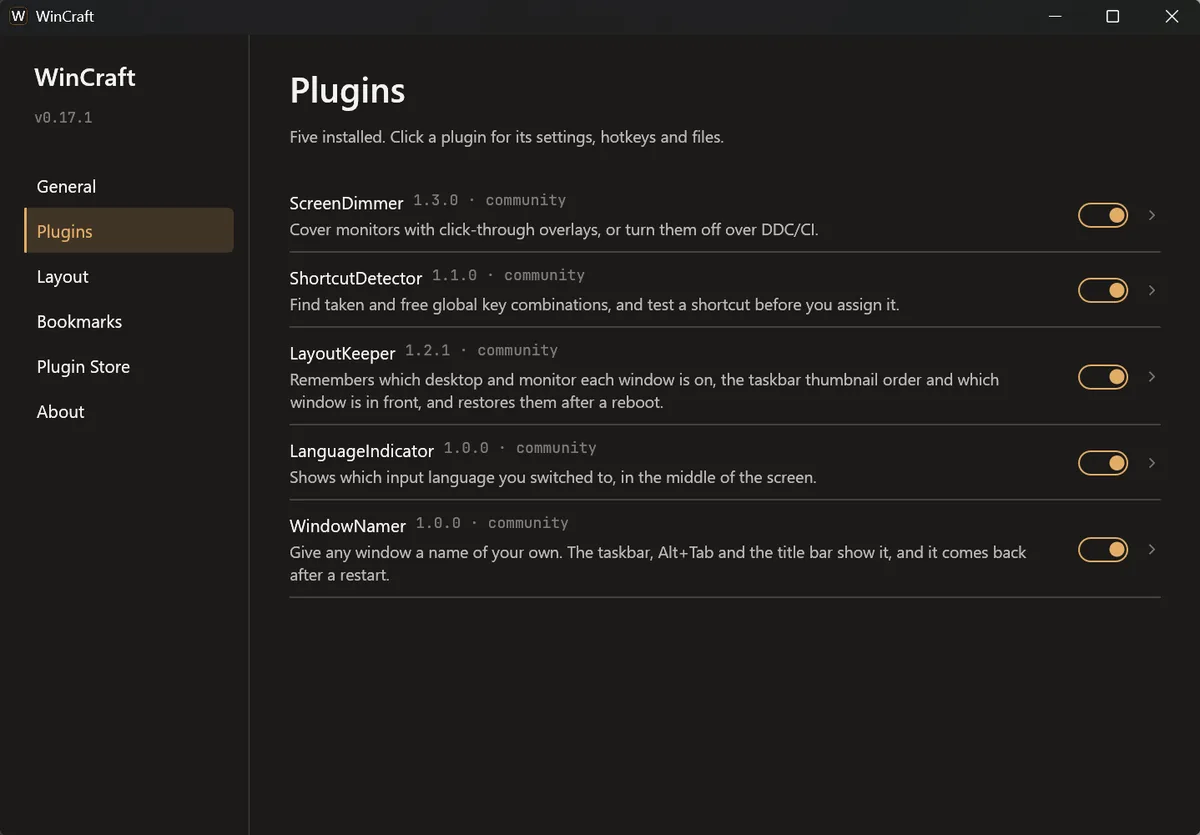
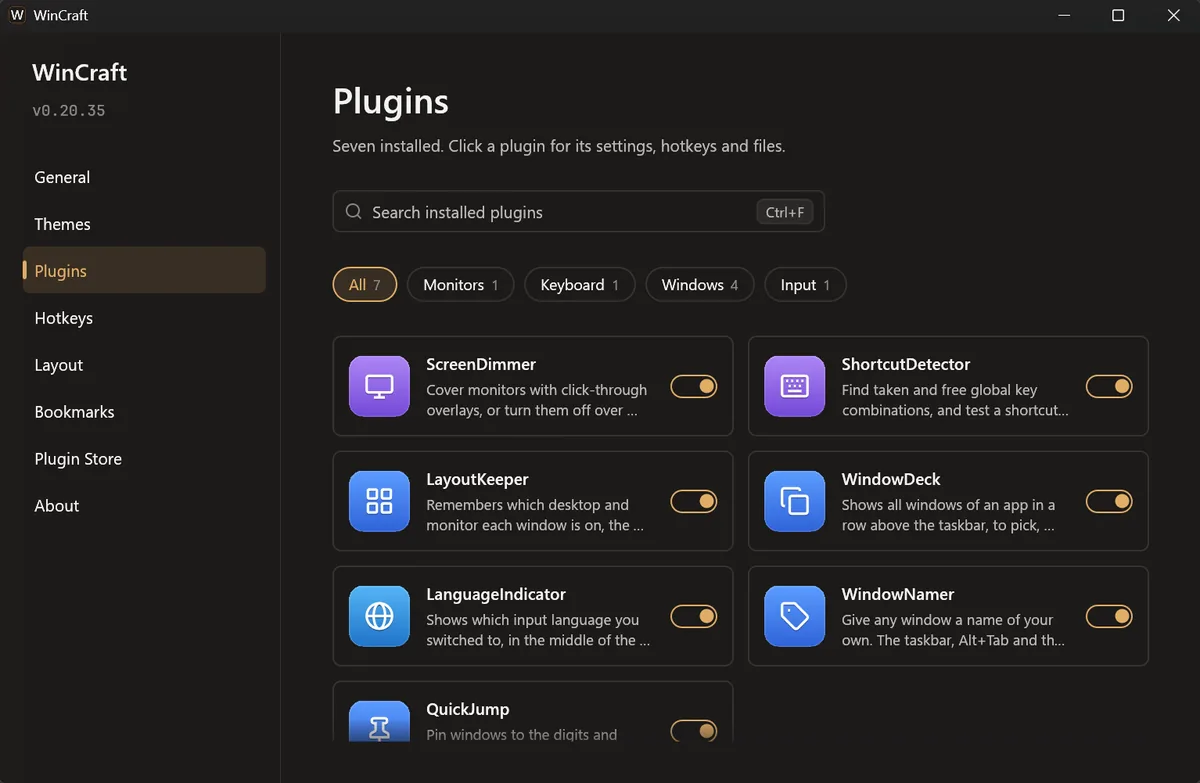
WinCraft page: creator's new copy and new screenshots of 0.20.35
The creator rewrote the landing copy (seven plugins, live inspector, chord
shortcuts and themes, Zero Telemetry) and the app has new screenshots. The
page, its images and the home-page card now match; command-palette.webp is
no longer used. prep-shots.py gets the link-preview size fix.

diff --git a/sites/wincraft/public/index.html b/sites/wincraft/public/index.html
@@ -4,11 +4,11 @@
 <meta charset="utf-8">
 <meta name="viewport" content="width=device-width, initial-scale=1">
 <title>WinCraft — Windows 11, crafted for power users</title>
-<meta name="description" content="The single-executable Windows 11 power suite—bringing an instant command palette, multi-monitor layout recovery, and hardware display control into one tiny Rust binary.">
+<meta name="description" content="The single-executable Windows 11 power suite—bringing an instant command palette with a live inspector, visual window switching, multi-monitor layout recovery, and hardware display controls into one tiny Rust binary.">
 <link rel="canonical" href="https://wincraft.luminart.app/">
 <meta name="theme-color" content="#0c0b10">
 <meta property="og:title" content="WinCraft — Windows 11, crafted for power users">
-<meta property="og:description" content="The single-executable Windows 11 power suite—bringing an instant command palette, multi-monitor layout recovery, and hardware display control into one tiny Rust binary.">
+<meta property="og:description" content="The single-executable Windows 11 power suite—bringing an instant command palette with a live inspector, visual window switching, multi-monitor layout recovery, and hardware display controls into one tiny Rust binary.">
 <meta property="og:url" content="https://wincraft.luminart.app/">
 <meta property="og:type" content="website">
 <meta property="og:site_name" content="Luminart">
@@ -43,83 +43,111 @@
     <section class="hero">
       <div class="hero-text">
         <p class="product">WinCraft</p>
-        <p class="kicker">Open Source (MIT) · Built in Rust · Windows 11 (24H2 Ready)</p>
+        <p class="kicker">Open Source (MIT) · Built in Rust · Windows 11 (24H2 Ready) · Zero Telemetry</p>
         <h1>Windows 11, Crafted for Power Users.</h1>
-        <p class="lead">One tiny executable. Zero background bloat. WinCraft combines a lightning-fast command palette, virtual desktop layout memory, and hardware monitor controls into a single, rock-solid system tray app.</p>
+        <p class="lead"><strong>One tiny executable. Seven essential desktop utilities. Zero background bloat.</strong><br>Stop running half a dozen background tools that fight over keyboard hooks and clutter your system tray. WinCraft brings an instant command palette, visual window management, multi-monitor layout memory, and hardware display controls into one rock-solid system tray app.</p>
         <div class="actions">
           <a class="btn btn-primary" href="https://github.com/OliverD25/wincraft/releases/latest/download/wincraft.exe">Download wincraft.exe</a>
           <a class="btn" href="https://github.com/OliverD25/wincraft" target="_blank" rel="noopener">View on GitHub →</a>
         </div>
-        <p class="note">No installer required. Portable out of the box, or install in one command: <code>wincraft.exe --install</code></p>
-        <p class="meta">Version 0.17.2 · about 11 MB · Not code-signed yet, so SmartScreen asks once · <a href="/releases/0.17.2/">What's new →</a> · <a href="/releases/">Release notes →</a></p>
+        <p class="note">No installer required. Run it straight from your downloads, or install into your Start Menu and startup in one command: <code>wincraft.exe --install</code></p>
+        <p class="meta">Version 0.20.35 · about 11 MB · Not code-signed yet, so SmartScreen asks once · <a href="/releases/">What's new →</a> · <a href="/releases/">Release notes →</a></p>
       </div>
       <img class="app-icon" src="/icons/wincraft-256.png" alt="WinCraft icon" width="112" height="112">
     </section>
     <section class="shot">
       <h2 class="visually-hidden">Screenshot</h2>
       <div class="window">
-        <img src="/images/hero.webp" alt="The WinCraft command palette: a search box over a list of WinCraft commands such as Open settings, Plugin store and Saved window layout" width="1011" height="621" loading="eager">
+        <img src="/images/hero.webp" alt="The WinCraft command palette in the Fluent glass theme, with the live inspector beside the results" width="1080" height="680" loading="eager">
       </div>
     </section>
     <section class="section palette">
-      <p class="label">The Command Palette (<code>Win+Alt+P</code>)</p>
-      <h2>One Search Box for Everything on Your PC</h2>
-      <p class="body">Summon the palette right on the monitor where your cursor lives. Type a few letters to launch apps, jump to open windows across any virtual desktop, search every disk in milliseconds via Everything, or use quick symbol prefixes to take instant action:</p>
+      <p class="label">The Command Palette (<kbd>Win+Alt+P</kbd>)</p>
+      <h2>One Search Box for Everything—Plus a Live Inspector</h2>
+      <p class="body">Summon the palette right on the monitor where your cursor lives. Type a few letters to launch apps, switch windows across virtual desktops, calculate math as you type, or search every drive in milliseconds via <strong>Everything</strong>.</p>
+      <h3 class="sub">New: The Live Inspector &amp; Intent Memory</h3>
+      <ul class="points">
+        <li><strong>Live Window &amp; Action Inspector:</strong> A side panel follows your selection with a live window preview, process ID, RAM usage, virtual desktop location, and every available keyboard action. Select multiple windows (<kbd>Ctrl+Space</kbd> or <kbd>Ctrl+A</kbd>) to batch-move across monitors, minimize, or close them at once.</li>
+        <li><strong>Learns Your Habits:</strong> WinCraft remembers what you typed before picking a result. Type the same shorthand again and your favorite match jumps straight to the top.</li>
+        <li><strong>Instant Prefix Filters:</strong> Type a symbol (or <code>w </code> for windows, <code>a </code> for apps) to scope your search immediately:</li>
+      </ul>
+      <figure class="fig">
+        <div class="window"><img src="/images/inspector.webp" alt="The command palette with three demo windows named Mail, Research and Bank; the inspector on the right shows the preview, process, monitor and desktop, memory and actions for Mail" width="903" height="523" loading="lazy"></div>
+        <figcaption>The live inspector: preview, process, monitor and desktop, memory, and every action</figcaption>
+      </figure>
       <div class="table-wrap">
         <table>
           <thead>
             <tr><th scope="col">Prefix</th><th scope="col">Action</th><th scope="col">What It Does</th></tr>
           </thead>
           <tbody>
-            <tr><td><code>(none)</code></td><td>Blended Search</td><td>Searches WinCraft commands, installed &amp; Store apps, open windows, bookmarks, and files at once—ranked automatically by what you use most.</td></tr>
-            <tr><td><code>&lt;</code></td><td>Window Switcher</td><td>Filter open windows across all virtual desktops by app title or custom WindowNamer label.</td></tr>
-            <tr><td><code>.</code> / <code>/</code></td><td>Instant File &amp; Path Search</td><td>Query every drive in milliseconds via voidtools' Everything (with automatic fallback to Windows Search) or browse directories folder-by-folder.</td></tr>
-            <tr><td><code>&gt;</code></td><td>Headless Terminal</td><td>Run WSL bash, PowerShell 7, or CMD commands straight inside the palette with live streaming output and built-in safety guards for destructive commands.</td></tr>
-            <tr><td><code>=</code></td><td>Quick Calculator</td><td>Evaluate math expressions, percentages (<code>200 * 15%</code>), and modulo operations on the fly.</td></tr>
-            <tr><td><code>'</code> / <code>?</code></td><td>Bookmarks &amp; Web</td><td>Jump to custom keyword bookmarks (<code>Ctrl+B</code> on any file/folder) or fire off a web search.</td></tr>
+            <tr><td><em>(none)</em></td><td><strong>5-Way Blended Search</strong></td><td>Searches WinCraft commands, Start/Store/installed apps, open windows, bookmarks, and files at once—solving sums like <code>12*3</code> automatically as you type.</td></tr>
+            <tr><td><code>&lt;</code> / <code>w </code></td><td><strong>Window Switcher</strong></td><td>Filter open windows across all virtual desktops by app title or custom <strong>WindowNamer</strong> label.</td></tr>
+            <tr><td><code>.</code> / <code>/</code></td><td><strong>Instant File &amp; Path Search</strong></td><td>Query every drive in milliseconds via voidtools' <em>Everything</em> (with Windows Search fallback) or browse directories folder-by-folder.</td></tr>
+            <tr><td><code>&gt;</code></td><td><strong>Headless Terminal</strong></td><td>Run <strong>WSL bash</strong>, PowerShell 7, or CMD commands inside the palette with live streaming output and a 5-second safety guard for destructive commands.</td></tr>
+            <tr><td><code>?</code></td><td><strong>Private Ask AI &amp; Web</strong></td><td>Open <strong>Claude</strong>, ChatGPT, Perplexity, Copilot, or a custom URL in your browser with your prompt pre-filled—zero API keys or tracking required.</td></tr>
+            <tr><td><code>=</code> / <code>'</code> / <code>!</code></td><td><strong>Calc, Bookmarks &amp; Commands</strong></td><td>Evaluate percentages (<code>200 * 15%</code>) and paste results (<kbd>Ctrl+Enter</kbd>), jump to <kbd>Ctrl+B</kbd> file/web bookmarks, or toggle any WinCraft plugin setting.</td></tr>
           </tbody>
         </table>
       </div>
     </section>
     <section class="section plugins">
-      <p class="label">Built-In Power Plugins</p>
-      <h2>Five Essential Tools. Zero Extra Processes.</h2>
-      <p class="body">Instead of running five separate background utilities fighting over keyboard hooks and tray icons, WinCraft runs everything inside a unified host.</p>
+      <p class="label">Seven Built-In Power Plugins</p>
+      <h2>Seven Essential Tools. Zero Extra Processes.</h2>
+      <p class="body">Every feature runs inside a single unified host process—sharing one tray icon, one hotkey manager, and one clean settings window.</p>
       <ul class="grid">
         <li class="card">
-          <h3>LayoutKeeper <span>— Never Lose Your Window Setup Again</span></h3>
-          <p>Remembers which monitor and virtual desktop every window lives on—plus the exact order of thumbnails in your taskbar group. Reboot or unplug a display and restore your entire workspace with <code>Win+Alt+L</code>, or visually drag and reorder windows across desktops using the live Arrange Strip (<code>Win+Alt+A</code>).</p>
+          <h3>WindowDeck <span>— Live Taskbar Previews &amp; Visual Arranger (<kbd>Win+Alt+A</kbd>)</span></h3>
+          <p>See all windows of an app laid out by monitor in a live strip above your taskbar. Pick, close (<kbd>Ctrl+W</kbd>), rename (<kbd>F2</kbd>), or drag windows across monitors and virtual desktops. Optionally replace Windows 11's native taskbar hover preview (<code>0.15s</code> hover) or bind <kbd>Win+1…9</kbd> to cycle and manage app windows at lightning speed.</p>
         </li>
         <li class="card">
-          <h3>ScreenDimmer <span>— Hardware &amp; Overlay Monitor Control</span></h3>
-          <p>Black out idle monitors with a click-through overlay (<code>Win+Alt+F1/F2/F3</code>) that turns translucent under your cursor, or power displays down directly over DDC/CI (<code>Win+Alt+Shift+F1/F2/F3</code>) without Windows scrambling your open windows onto your main screen.</p>
+          <h3>QuickJump <span>— Neovim's Harpoon for Your Windows (<kbd>Win+Alt+Q</kbd>)</span></h3>
+          <p>Pin up to 10 essential windows to digits <code>0–9</code> (<kbd>Win+Alt+Shift+Q</kbd> + digit) and jump back to any of them from anywhere (<kbd>Win+Alt+Q</kbd> + digit). Automatically switches virtual desktops, restores minimized windows, remembers pins across reboots, and even launches the app if it isn't running.</p>
         </li>
         <li class="card">
-          <h3>WindowNamer <span>— Persistent Custom Window Titles</span></h3>
-          <p>Turn three identical browser windows into "Mail", "Research", and "Bank" (<code>Win+Alt+E</code>). Custom names show up in the title bar, Alt+Tab, and taskbar thumbnails—and persist even when the app changes its page title or restarts.</p>
+          <h3>LayoutKeeper <span>— Reboot-Proof Workspace Memory (<kbd>Win+Alt+L</kbd>)</span></h3>
+          <p>Remembers which virtual desktop and monitor every window belongs on, plus the exact order of thumbnails in your taskbar group. Reboot or unplug a display and restore your entire desk layout with a single shortcut.</p>
+        </li>
+        <li class="card">
+          <h3>ScreenDimmer <span>— Hardware DDC/CI &amp; Overlay Monitor Control (<kbd>Win+Alt+F1/F2/F3</kbd>)</span></h3>
+          <p>Cover idle monitors with a click-through black overlay that turns translucent under your cursor, or power displays down directly over <strong>DDC/CI</strong> (<kbd>Win+Alt+Shift+F1/F2/F3</kbd>) like a physical power button—without Windows scrambling your open windows onto your main screen.</p>
+        </li>
+        <li class="card">
+          <h3>WindowNamer <span>— Persistent Custom Window Titles (<kbd>Win+Alt+E</kbd>)</span></h3>
+          <p>Turn three identical browser windows into <em>"Mail"</em>, <em>"Research"</em>, and <em>"Bank"</em>. Custom names show up in the title bar, <kbd>Alt+Tab</kbd>, WindowDeck, and taskbar thumbnails—and stay put even when the app changes its page title or restarts.</p>
+        </li>
+        <li class="card">
+          <h3>ShortcutDetector <span>— End Global Hotkey Conflicts (<kbd>Win+Alt+S</kbd>)</span></h3>
+          <p>See every global key combination already claimed on your PC and test shortcuts live before you assign them.</p>
         </li>
         <li class="card">
           <h3>LanguageIndicator <span>— Clean On-Screen Input HUD</span></h3>
-          <p>Switch from Ukrainian to English and get a sleek, click-through translucent HUD right in the center of your screen (UK → EN) that fades out smoothly without ever stealing window focus.</p>
-        </li>
-        <li class="card">
-          <h3>ShortcutDetector <span>— End Global Hotkey Conflicts</span></h3>
-          <p>Press <code>Win+Alt+Q</code> to see every global shortcut already registered on your PC and test key combinations before you assign them.</p>
+          <p>Switch from Ukrainian to English and get a sleek, click-through translucent HUD right in the center of your screen (<code>UK → EN</code>) that fades out smoothly without ever stealing window focus.</p>
         </li>
       </ul>
+      <figure class="fig fig-after">
+        <div class="window"><img src="/images/windowdeck.webp" alt="WindowDeck: a strip of window thumbnails for one app, shown above the Windows taskbar" width="878" height="248" loading="lazy"></div>
+        <figcaption>WindowDeck: every window of an app in a strip above the taskbar</figcaption>
+      </figure>
     </section>
     <section class="gallery">
       <h2 class="label">More views</h2>
       <ul class="views">
         <li>
           <figure>
-            <div class="window"><img src="/images/plugins.webp" alt="The WinCraft settings window on its Plugins page, listing the five plugins" width="1200" height="835" loading="lazy"></div>
-            <figcaption>Settings: five plugins, each with its own page</figcaption>
+            <div class="window"><img src="/images/plugins.webp" alt="The WinCraft settings window on its Plugins page, listing the seven plugins" width="1200" height="783" loading="lazy"></div>
+            <figcaption>Settings: seven plugins, each with its own page</figcaption>
           </figure>
         </li>
         <li>
           <figure>
-            <div class="window"><img src="/images/screen-dimmer.webp" alt="The ScreenDimmer settings page with its options for each monitor" width="1200" height="835" loading="lazy"></div>
+            <div class="window"><img src="/images/quickjump.webp" alt="The QuickJump settings page with the windows pinned to the digits" width="1200" height="783" loading="lazy"></div>
+            <figcaption>QuickJump: pin windows to the digits and jump back</figcaption>
+          </figure>
+        </li>
+        <li>
+          <figure>
+            <div class="window"><img src="/images/screen-dimmer.webp" alt="The ScreenDimmer settings page with its options for each monitor" width="1200" height="783" loading="lazy"></div>
             <figcaption>ScreenDimmer: cover a monitor or turn it off</figcaption>
           </figure>
         </li>
@@ -129,40 +157,51 @@
             <figcaption>Shortcut detector: which key combinations are taken</figcaption>
           </figure>
         </li>
-        <li>
-          <figure>
-            <div class="window"><img src="/images/command-palette.webp" alt="The command palette listing the prefixes it understands" width="1019" height="628" loading="lazy"></div>
-            <figcaption>Palette prefixes: windows, bookmarks, files, sums, terminal, web</figcaption>
-          </figure>
-        </li>
       </ul>
     </section>
+    <section class="section custom">
+      <p class="label">Designed for Customization &amp; Control</p>
+      <h2>Chord Shortcuts &amp; Native Themes</h2>
+      <ul class="points">
+        <li><strong>Single-Press &amp; 2-Step Chord Hotkeys:</strong> Bind any command in the palette (<kbd>Ctrl+K</kbd>) or Settings to a standard shortcut or a two-step chord like <kbd>Win+Alt+K, S</kbd>. Live status dots tell you immediately if a shortcut is active (<span class="ok" aria-label="active">✓</span>) or claimed by another app (<span class="warn" aria-label="claimed by another app">⚠</span>).</li>
+        <li><strong>5 Native Themes with Live Hover Preview:</strong> Choose between <strong>Classic</strong>, <strong>Fluent</strong> (native Windows 11 glass that smartly turns solid on battery saver), <strong>Terminal</strong>, <strong>Paper</strong>, and <strong>High Contrast</strong>—each in Light, Dark, or System mode. Hover over any theme tile in Settings to preview it live across every open WinCraft window.</li>
+      </ul>
+      <figure class="fig">
+        <div class="window"><img src="/images/themes.webp" alt="The WinCraft settings window with the five theme tiles: Classic, Fluent, Terminal, Paper and High Contrast" width="1200" height="783" loading="lazy"></div>
+        <figcaption>Five themes, each in light, dark or system mode</figcaption>
+      </figure>
+    </section>
     <section class="section why">
-      <p class="label">Why Power Users &amp; Developers Love WinCraft</p>
+      <p class="label">Architecture &amp; Trust</p>
       <h2>Engineered to Respect Your Machine</h2>
       <ul class="grid why-grid">
         <li class="card">
-          <p><strong>Single Portable Binary:</strong> Compiles down to one standalone <code>wincraft.exe</code>. No runtime installers, no webview overhead, no administrator privileges required.</p>
+          <p><strong>100% Portable &amp; Admin-Free:</strong> One standalone <code>wincraft.exe</code>. Run it portably from any folder, or run <code>wincraft.exe --install</code> to set up a Start Menu shortcut and a user-level startup task—zero administrator privileges required.</p>
         </li>
         <li class="card">
-          <p><strong>Crash-Proof Configs:</strong> All settings live in clean, human-readable JSON files under <code>%LOCALAPPDATA%\WinCraft</code>. Every plugin gets its own file—if you make a syntax error editing one, WinCraft safely falls back to defaults without wiping your configuration.</p>
+          <p><strong>Isolated, Crash-Proof JSON Configs:</strong> Settings live in <code>%LOCALAPPDATA%\WinCraft</code> with one JSON file per plugin. If a manual edit breaks a file, WinCraft safely falls back to defaults without overwriting your file or breaking your other plugins.</p>
         </li>
         <li class="card">
-          <p><strong>Self-Healing Updates:</strong> Optional daily update checks verify SHA256 checksums and automatically roll back to your previous binary if a new version fails to run cleanly for 30 seconds.</p>
+          <p><strong>Self-Healing Updates:</strong> Optional daily update checks verify <code>SHA256</code> checksums and automatically roll back to your previous executable if a new version fails to run cleanly for 30 seconds.</p>
         </li>
         <li class="card">
-          <p><strong>1-Trait Plugin Architecture:</strong> Want to build your own tool? Implement a single Rust trait and describe your settings. WinCraft handles all the Win32 plumbing, global hotkeys, config persistence, and UI rendering automatically.</p>
+          <p><strong>100% Private (Zero Telemetry):</strong> No accounts, no analytics, no background data collection. Your layouts, bookmarks, and usage rankings never leave your PC.</p>
+        </li>
+        <li class="card">
+          <p><strong>1-Trait Rust Plugin System:</strong> Want to add your own feature in an afternoon? Implement one Rust trait and describe your settings—WinCraft draws the UI, binds the hotkeys, and saves the config automatically.</p>
         </li>
       </ul>
     </section>
     <section class="section cta">
       <h2>Ready to Upgrade Your Windows 11 Workflow?</h2>
-      <p class="body">Build from source in seconds with Cargo or grab the latest release on GitHub.</p>
-      <pre><code>git clone https://github.com/OliverD25/wincraft
-cd wincraft
-cargo build --release</code></pre>
+      <p class="body">Download the single executable and start using it in two seconds—or build from source with Cargo.</p>
+      <pre><code># Run the downloaded executable to install into Start Menu &amp; Startup:
+wincraft.exe --install
+
+# Or build from source:
+git clone https://github.com/OliverD25/wincraft; cd wincraft; cargo build --release</code></pre>
       <div class="actions">
-        <a class="btn btn-primary" href="https://github.com/OliverD25/wincraft/releases/latest/download/wincraft.exe">Download wincraft.exe</a>
+        <a class="btn btn-primary" href="https://github.com/OliverD25/wincraft/releases/latest/download/wincraft.exe">Download Latest Release</a>
         <a class="btn" href="https://github.com/OliverD25/wincraft" target="_blank" rel="noopener">★ Star OliverD25/wincraft on GitHub</a>
       </div>
       <p class="meta">MIT Licensed</p>

diff --git a/sites/wincraft/public/page.css b/sites/wincraft/public/page.css
@@ -283,6 +283,7 @@ td:nth-child(2) { color: var(--text); white-space: nowrap; }
 .card h3 { margin: 0 0 8px; font-size: 16px; font-weight: 500; }
 .card h3 span { color: var(--muted); font-weight: 400; }
 .plugins .card:first-child { grid-column: 1 / -1; }
+.card kbd { font-size: 11px; }
 .card strong { color: var(--text); font-weight: 500; }
 
 .card p {
@@ -320,7 +321,46 @@ code {
   font-family: 'DM Mono', monospace;
   font-size: 13px;
 }
-.label code { font-size: 12px; }
+kbd {
+  padding: 1px 6px 2px;
+  border: 1px solid var(--line);
+  border-bottom-width: 2px;
+  border-radius: 4px;
+  background: var(--panel);
+  color: var(--text);
+  font-family: 'DM Mono', monospace;
+  font-size: 12px;
+  white-space: nowrap;
+}
+.label code, .label kbd { font-size: 12px; }
+
+.lead strong { color: var(--text); font-weight: 500; }
+.section .body strong, .points strong { color: var(--text); font-weight: 500; }
+
+.sub { margin: 0 0 12px; font-size: 16px; font-weight: 500; }
+.points {
+  max-width: 680px;
+  margin: 0 0 32px;
+  padding-left: 20px;
+  font-size: 15px;
+  line-height: 1.6;
+  color: var(--muted);
+  text-wrap: pretty;
+}
+.points li + li { margin-top: 10px; }
+.ok { color: var(--accent); }
+.warn { color: #d9a441; }
+
+.fig { margin: 0 0 32px; }
+.fig-after { margin: 16px 0 0; }
+.fig figcaption {
+  margin-top: 10px;
+  font-family: 'DM Mono', monospace;
+  font-size: 12px;
+  color: var(--faint);
+}
+td strong { font-weight: 500; }
+.why-grid .card:last-child { grid-column: 1 / -1; }
 .meta a, .note a { text-decoration: underline; text-underline-offset: 2px; }
 
 footer {

diff --git a/scripts/prep-shots.py b/scripts/prep-shots.py
@@ -65,8 +65,10 @@ for src in sources:
         card.save(out, "WEBP", quality=82, method=6)
         report(out, card)
 
-        og = scaled(image, 1200)
-        og = og.crop((0, 0, 1200, min(630, og.size[1])))
+        # Always exactly 1200 wide (scaled up if the hero is smaller), then 630 from the middle.
+        og = image.resize((1200, round(image.size[1] * 1200 / image.size[0])), Image.LANCZOS)
+        top = max(0, (og.size[1] - 630) // 2)
+        og = og.crop((0, top, 1200, top + min(630, og.size[1])))
         out = page_images / "og.jpg"
         og.save(out, "JPEG", quality=88, optimize=True)
         report(out, og)
